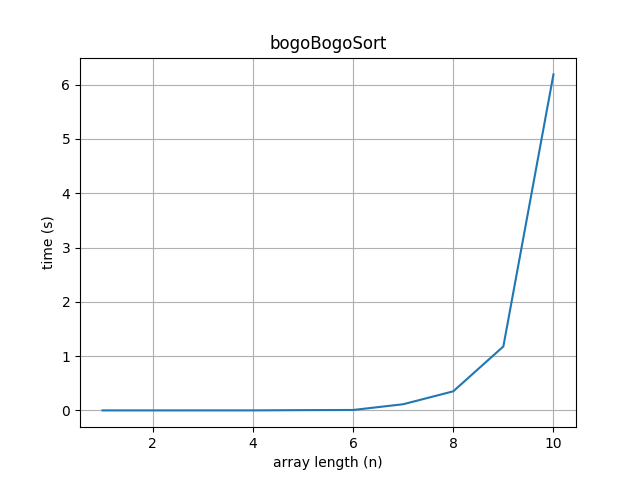
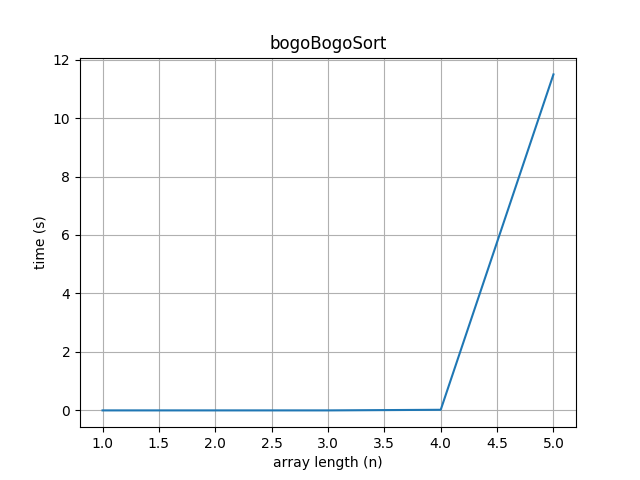
updated bogobogosort

diff --git a/BogoBogoSort.py b/BogoBogoSort.py
@@ -1,28 +1,22 @@
 import random
 
 def is_sorted(lst):
-    for i in range(len(lst) - 1):
-        if lst[i] > lst[i + 1]:
-            return False
-    return True
-
-def bogoSort(lst):
-    while not is_sorted(lst):
-        random.shuffle(lst)
-    return lst
+	cpy = lst[:]
+	std = bogoBogoSort(cpy[:-1])
+	while cpy[-1] < max(std):
+		random.shuffle(cpy)
+		std = bogoBogoSort(cpy[:-1])
+	return std == lst[:-1]
 
 def bogoBogoSort(lst):
-	index = 2
-	while(not is_sorted(lst)):
-		bogoSort(lst[:index])
-		index += 1
-		if(not is_sorted(lst[:index])):
-			random.shuffle(lst)
-			index = 2
+	if len(lst) == 1:
+		return lst
+	while not is_sorted(lst):
+		random.shuffle(lst)
 	return lst
 
 if __name__ == "__main__":
-    list1 = [1,4,2,5,6,5,3]
+    list1 = [7,1,8,4,3]
     print('\n\n-----Bogobogosort Sorting Algorithm-----\n')
     print('unsorted list:   '+str(list1))
     print('sorted list:     '+str(bogoBogoSort(list1)))
